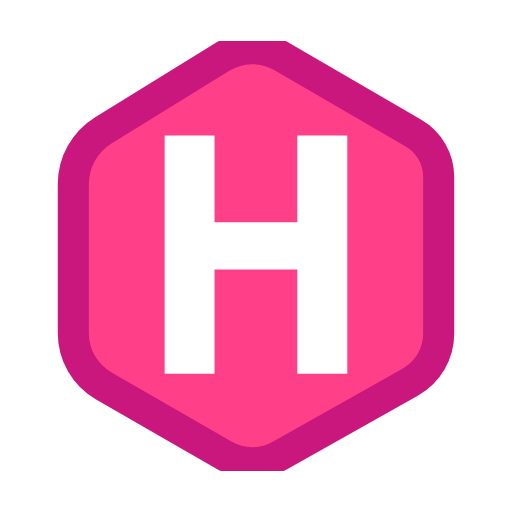
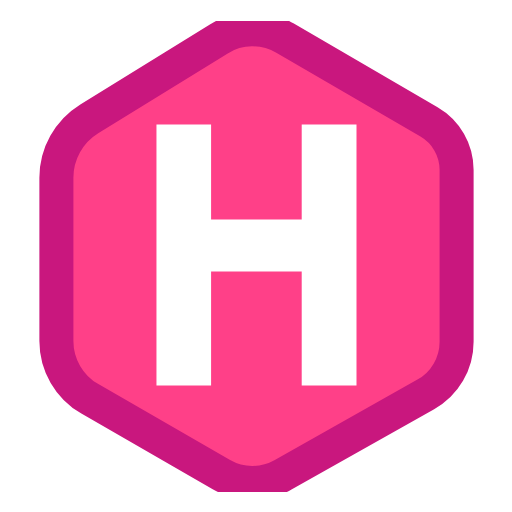
style(brand): 图标留白由 8% 收紧到 4%（PAD 常量），标记更满；实测各轴对称（180px：左右 13/13、上下 7/7）

Changed region(s): [[0.0625, 0.0312, 0.9375, 0.9688]]

diff --git a/check-pad.py b/check-pad.py
@@ -1,9 +1,5 @@
 from PIL import Image
-import os
-for f in ['hugo-docs-zh/static/apple-touch-icon.png', 'hugo-docs-zh/static/images/icon-64.png']:
-    im = Image.open(f).convert('RGBA')
-    bb = im.split()[3].getbbox()          # 非透明内容的外接框
-    w, h = im.size
+for f in ['hugo-docs-zh/static/apple-touch-icon.png', 'hugo-docs-zh/static/images/icon-64.png', 'hugo-docs-zh/static/images/icon-512.png']:
+    im = Image.open(f).convert('RGBA'); bb = im.split()[3].getbbox(); w, h = im.size
     l, t, r, b = bb
-    print(f'{os.path.basename(f)}: 画布 {w}x{h}  内容框 {bb}')
-    print(f'   左{l} 右{w-r} 上{t} 下{h-b}   左右差 {abs(l-(w-r))}  上下差 {abs(t-(h-b))}')
+    print(f'{f.split("/")[-1]:22} canvas {w}x{h}  margins L{l} R{w-r} T{t} B{h-b}   (L-R diff {abs(l-(w-r))}, T-B diff {abs(t-(h-b))})')
